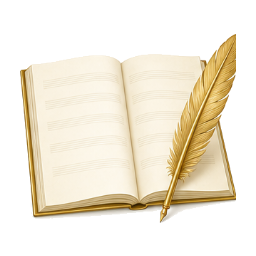
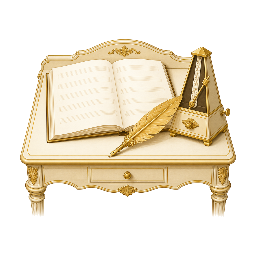
Fix classical-compose producer: terrace stage, pack vocab, no house flats.
Skip a second piano when the moonlit terrace is the activity scene, prefer curated VocabIcons over PropBank steals, stop house-a leaking into classical-moon, shrink long sentence frames, and score music story cues before home.

diff --git a/public/lib/renderLessonPages.js b/public/lib/renderLessonPages.js
@@ -885,27 +885,36 @@
     }));
     const frames = (lesson.sentenceFrames || []).slice(0, 3);
     const rows = Math.max(1, frames.length);
+    const lens = frames.map((f) => String(f || '').length);
+    const longest = Math.max(0, ...lens);
+    // Long B1 frames at 40px overflow the 590px board — shrink type + wrap.
+    const fontPx = longest > 75 ? 26 : longest > 55 ? 30 : rows <= 1 ? 44 : 34;
+    // #region agent log
+    fetch('http://127.0.0.1:7330/ingest/c54d6774-70b5-407f-ba51-380519a0c4ca',{method:'POST',headers:{'Content-Type':'application/json','X-Debug-Session-Id':'3c9697'},body:JSON.stringify({sessionId:'3c9697',runId:'post-fix',hypothesisId:'B',location:'renderLessonPages.js:makeFrames',message:'frames layout inputs',data:{count:frames.length,lens,fontPx,longest,frames:frames.map((f)=>String(f).slice(0,80))},timestamp:Date.now()})}).catch(()=>{});
+    // #endregion
     const body = el('div', {
       flex: '1',
       minHeight: '0',
       display: 'grid',
       gridTemplateRows: `repeat(${rows}, 1fr)`,
-      gap: '14px',
+      gap: '10px',
       width: '100%',
+      overflow: 'hidden',
     });
     frames.forEach((f, i) => {
       body.appendChild(card(
-        `<div style="font-size:22px;font-weight:700;color:#64748b;margin-bottom:8px;flex-shrink:0">Frame ${i + 1}</div>
-         <div style="font-size:${rows <= 1 ? 48 : 40}px;font-weight:800;color:#1e293b;line-height:1.2;margin-bottom:14px;flex-shrink:0">${esc(f)}</div>
-         <div style="border-bottom:4px dashed #94a3b8;flex:1;min-height:56px;width:100%"></div>`,
+        `<div style="font-size:18px;font-weight:700;color:#64748b;margin-bottom:6px;flex-shrink:0">Frame ${i + 1}</div>
+         <div style="font-size:${fontPx}px;font-weight:800;color:#1e293b;line-height:1.25;margin-bottom:10px;flex-shrink:1;overflow:hidden;max-height:46%">${esc(f)}</div>
+         <div style="border-bottom:3px dashed #94a3b8;flex:1;min-height:36px;width:100%"></div>`,
         {
-          padding: '20px 26px',
+          padding: '14px 22px',
           marginBottom: '0',
           height: '100%',
           minHeight: '0',
           display: 'flex',
           flexDirection: 'column',
           boxSizing: 'border-box',
+          overflow: 'hidden',
         }
       ));
     });
@@ -920,6 +929,8 @@
     // "Living in the Shadow of the Crater" must not steal the home house
     // when volcano words are also present.
     if (/\b(volcano|volcanic|crater|lava|eruption|ash|geothermal|magma|seismic)\b/.test(t)) return '🌋';
+    // Music / compose before "Quiet Home" — classical lessons must not show 🏠.
+    if (/\b(music|compose|composer|composition|orchestra|melody|harmony|guitar|piano|violin|concert|classical|symphony|strum|tempo|rhythm|performance)\b/.test(t)) return '🎼';
     // Castle before gym — "courtyard" must not hit includes('court') → basketball.
     if (/\b(castle|knight|dragon|medieval|moat|portcullis|drawbridge|royal|king|queen|fortress)\b/.test(t)) return '🏰';
     if (/\b(gym|workout|athletic)\b/.test(t) || /\bcourt\b/.test(t)) return '🏀';
@@ -1041,6 +1052,9 @@
       side.dataset.storyArtMode = 'side';
       side.appendChild(el('div', { fontSize: '96px', lineHeight: '1', marginBottom: '14px' },
         themeEmoji(storyArtCue(lesson, page))));
+      // #region agent log
+      fetch('http://127.0.0.1:7330/ingest/c54d6774-70b5-407f-ba51-380519a0c4ca',{method:'POST',headers:{'Content-Type':'application/json','X-Debug-Session-Id':'3c9697'},body:JSON.stringify({sessionId:'3c9697',runId:'pre-fix',hypothesisId:'C',location:'renderLessonPages.js:makeStoryPage',message:'story side emoji chosen',data:{index,cue:storyArtCue(lesson,page).slice(0,160),emoji:themeEmoji(storyArtCue(lesson,page)),caption:page&&page.visualCaption,heading:page&&page.heading},timestamp:Date.now()})}).catch(()=>{});
+      // #endregion
       side.appendChild(el('div', {
         background: '#ffffff', color: '#9a3412', borderRadius: '12px', padding: '10px 14px',
         fontSize: '22px', fontWeight: '700', textAlign: 'center', width: '100%',
@@ -1396,6 +1410,26 @@
       topicWords: [lesson.title || '', ...vocabWords],
     });
     boardPlan.bgPicks = bgPicks;
+    // Terrace scene already paints a grand piano — skip a second king cutout.
+    const actAssign = (boardPlan.assignments || []).find((a) => a.pageKey === 'activity');
+    const actIdx = sections.findIndex((s) => (s.tags || []).includes('activity'));
+    const actPick = actIdx >= 0 ? bgPicks[actIdx] : null;
+    if (
+      actAssign &&
+      actAssign.recipeId === 'heroProp' &&
+      actPick &&
+      actPick.type === 'scene' &&
+      /piano|terrace|moonlit/i.test(String(actPick.name || ''))
+    ) {
+      const heroKey = actAssign.ctx && actAssign.ctx.hero && actAssign.ctx.hero.key;
+      if (heroKey === 'grand-piano' || heroKey === 'dh-piano') {
+        actAssign.ctx = Object.assign({}, actAssign.ctx || {}, { skipKing: true });
+      }
+    }
+    // #region agent log
+    const titleIdx = sections.findIndex((s) => (s.tags || []).includes('title'));
+    fetch('http://127.0.0.1:7330/ingest/c54d6774-70b5-407f-ba51-380519a0c4ca',{method:'POST',headers:{'Content-Type':'application/json','X-Debug-Session-Id':'3c9697'},body:JSON.stringify({sessionId:'3c9697',runId:'post-fix',hypothesisId:'A',location:'renderLessonPages.js:attachBgPicks',message:'bg picks for title/activity',data:{title:bgPicks[titleIdx]&&{type:bgPicks[titleIdx].type,name:bgPicks[titleIdx].name},activity:actPick&&{type:actPick.type,name:actPick.name,reused:!!actPick.reused},skipKing:!!(actAssign&&actAssign.ctx&&actAssign.ctx.skipKing),actPreferFlat:sections[actIdx]&&sections[actIdx].preferFlat,flatNames:bgPicks.filter(p=>p.type==='flat').map(p=>p.name)},timestamp:Date.now()})}).catch(()=>{});
+    // #endregion
     // Scene dressing needs groundY from the picks — run after, not in buildBoardPlan.
     if (window.EdbActivities && window.EdbActivities.dressScenes) {
       if (window.PropBank) await window.PropBank.ready();

diff --git a/public/lib/buildEdb.js b/public/lib/buildEdb.js
@@ -309,11 +309,26 @@ function placeholderPng(w, h, label) {
   return canvasToPng(c);
 }
 
-/** PropBank theme cutout first, then Twemoji pack — never silent-drop. */
+/** Curated VocabIcons pack first, then PropBank cutout — never silent-drop.
+ *  PropBank-first stole abstract vocab (compose→desk, melody→trumpet) and
+ *  skipped dedicated ivory/gold pack icons. */
 async function wordArtPng(word, ctx) {
   if (!word) return null;
   const c = ctx || {};
+  const VI = window.VocabIcons;
   const PB = window.PropBank;
+  let propKey = null;
+
+  if (VI && typeof VI.isCurated === 'function' && VI.isCurated(word)) {
+    const pack = await VI.loadPng(word);
+    if (pack) {
+      // #region agent log
+      fetch('http://127.0.0.1:7330/ingest/c54d6774-70b5-407f-ba51-380519a0c4ca',{method:'POST',headers:{'Content-Type':'application/json','X-Debug-Session-Id':'3c9697'},body:JSON.stringify({sessionId:'3c9697',runId:'post-fix',hypothesisId:'E',location:'buildEdb.js:wordArtPng',message:'word art via curated VocabIcons',data:{word,source:'pack'},timestamp:Date.now()})}).catch(()=>{});
+      // #endregion
+      return pack;
+    }
+  }
+
   if (PB && typeof PB.loaded === 'function' && PB.loaded()) {
     const family = c.family
       || (c.lesson && PB.familyFor ? PB.familyFor(c.lesson) : null)
@@ -324,14 +339,29 @@ async function wordArtPng(word, ctx) {
       seed: c.seed || (c.lesson && c.lesson.title) || word,
     });
     if (prop) {
+      propKey = prop.key;
       const png = await PB.loadPng(prop);
-      if (png) return png;
+      if (png) {
+        // #region agent log
+        fetch('http://127.0.0.1:7330/ingest/c54d6774-70b5-407f-ba51-380519a0c4ca',{method:'POST',headers:{'Content-Type':'application/json','X-Debug-Session-Id':'3c9697'},body:JSON.stringify({sessionId:'3c9697',runId:'post-fix',hypothesisId:'E',location:'buildEdb.js:wordArtPng',message:'word art via PropBank fallback',data:{word,propKey,source:'prop'},timestamp:Date.now()})}).catch(()=>{});
+        // #endregion
+        return png;
+      }
     }
   }
-  if (window.VocabIcons) {
-    const pack = await window.VocabIcons.loadPng(word);
-    if (pack) return pack;
+
+  if (VI) {
+    const pack = await VI.loadPng(word);
+    if (pack) {
+      // #region agent log
+      fetch('http://127.0.0.1:7330/ingest/c54d6774-70b5-407f-ba51-380519a0c4ca',{method:'POST',headers:{'Content-Type':'application/json','X-Debug-Session-Id':'3c9697'},body:JSON.stringify({sessionId:'3c9697',runId:'post-fix',hypothesisId:'E',location:'buildEdb.js:wordArtPng',message:'word art via VocabIcons late',data:{word,propKey,source:'pack-late'},timestamp:Date.now()})}).catch(()=>{});
+      // #endregion
+      return pack;
+    }
   }
+  // #region agent log
+  fetch('http://127.0.0.1:7330/ingest/c54d6774-70b5-407f-ba51-380519a0c4ca',{method:'POST',headers:{'Content-Type':'application/json','X-Debug-Session-Id':'3c9697'},body:JSON.stringify({sessionId:'3c9697',runId:'post-fix',hypothesisId:'E',location:'buildEdb.js:wordArtPng',message:'word art miss',data:{word,propKey},timestamp:Date.now()})}).catch(()=>{});
+  // #endregion
   return null;
 }
 

diff --git a/public/lib/edbActivities.js b/public/lib/edbActivities.js
@@ -863,36 +863,44 @@
     const art = L.zoneRect(page, 'artSafe') || { x: 0, y: 0, w: 1280, h: 470 };
     const dock = L.zoneRect(page, 'dock');
     const stageH = dock ? Math.max(360, dock.y) : Math.max(360, art.h);
-    const king = Object.assign({}, prop, { relativeScale: 1 });
-    const flushCrop = stageFitFor(prop) === 'flush';
-    const scale = flushCrop ? 1.5 : 0.92;
-    const sized = PB.sizeFor(king, {
-      maxH: Math.round(stageH * scale),
-      maxW: Math.min(L.W - 8, Math.round(stageH * scale * (prop.aspect || 1))),
-      hardCap: Math.round(stageH * scale),
-    });
-    const x = Math.round((L.W - sized.w) / 2);
-    const y = flushCrop
-      ? -Math.round(sized.h * 0.34)
-      : Math.max(8, Math.round((stageH - sized.h) / 2));
+    const skipKing = !!(ctx && ctx.skipKing);
 
-    L.place(page, {
-      locked: false,
-      kind: 'image',
-      asset: prop.path,
-      w: sized.w,
-      h: sized.h,
-      intentional: true,
-      bleed: flushCrop ? 'crop' : 'edge',
-      _force: { x, y, w: sized.w, h: sized.h },
-      role: page.pageType === 'heroStage' ? 'stageHero' : 'heroPart',
-      meta: {
-        propKey: prop.key,
-        propAspect: prop.aspect,
-        stageKing: page.pageType === 'heroStage',
-        stageFit: stageFitFor(prop),
-      },
-    });
+    if (!skipKing) {
+      const king = Object.assign({}, prop, { relativeScale: 1 });
+      const flushCrop = stageFitFor(prop) === 'flush';
+      const scale = flushCrop ? 1.5 : 0.92;
+      const sized = PB.sizeFor(king, {
+        maxH: Math.round(stageH * scale),
+        maxW: Math.min(L.W - 8, Math.round(stageH * scale * (prop.aspect || 1))),
+        hardCap: Math.round(stageH * scale),
+      });
+      const x = Math.round((L.W - sized.w) / 2);
+      const y = flushCrop
+        ? -Math.round(sized.h * 0.34)
+        : Math.max(8, Math.round((stageH - sized.h) / 2));
+
+      L.place(page, {
+        locked: false,
+        kind: 'image',
+        asset: prop.path,
+        w: sized.w,
+        h: sized.h,
+        intentional: true,
+        bleed: flushCrop ? 'crop' : 'edge',
+        _force: { x, y, w: sized.w, h: sized.h },
+        role: page.pageType === 'heroStage' ? 'stageHero' : 'heroPart',
+        meta: {
+          propKey: prop.key,
+          propAspect: prop.aspect,
+          stageKing: page.pageType === 'heroStage',
+          stageFit: stageFitFor(prop),
+        },
+      });
+    }
+
+    // #region agent log
+    fetch('http://127.0.0.1:7330/ingest/c54d6774-70b5-407f-ba51-380519a0c4ca',{method:'POST',headers:{'Content-Type':'application/json','X-Debug-Session-Id':'3c9697'},body:JSON.stringify({sessionId:'3c9697',runId:'post-fix',hypothesisId:'A',location:'edbActivities.js:heroProp',message:'hero stage placement',data:{heroKey:prop.key,path:prop.path,pageType:page.pageType,skipKing,pack:prop.pack||null},timestamp:Date.now()})}).catch(()=>{});
+    // #endregion
 
     // Face kits ship plenty of parts — use two dock rows when the zone is tall enough.
     const tools = roleplayDockProps(lesson, prop, 18);

diff --git a/public/lib/sceneBackgrounds.js b/public/lib/sceneBackgrounds.js
@@ -426,10 +426,11 @@
         if (pin === 'open') key = setKeys[0];
         else if (pin === 'close') key = setKeys[setKeys.length - 1];
         else {
-          // Thin sets (≤4) recycle hard for M5. Borrow at most enough house cool
-          // panels to stay inside the H2 cohesion band (≤5 distinct flats).
+          // Thin sets (<3) recycle hard for M5. Borrow house cool panels only
+          // when the place set is too short — never dilute a full 4-panel deck
+          // (classical-moon was leaking house-a into music lessons).
           let midPool = setKeys.length >= 3 ? setKeys.slice(1) : setKeys.slice();
-          if (setKeys.length <= 4 && wantSet !== DEFAULT_SET) {
+          if (setKeys.length < 3 && wantSet !== DEFAULT_SET) {
             const room = Math.max(0, 5 - setKeys.length);
             if (room > 0) {
               const houseBoost = all.filter((k) => {
